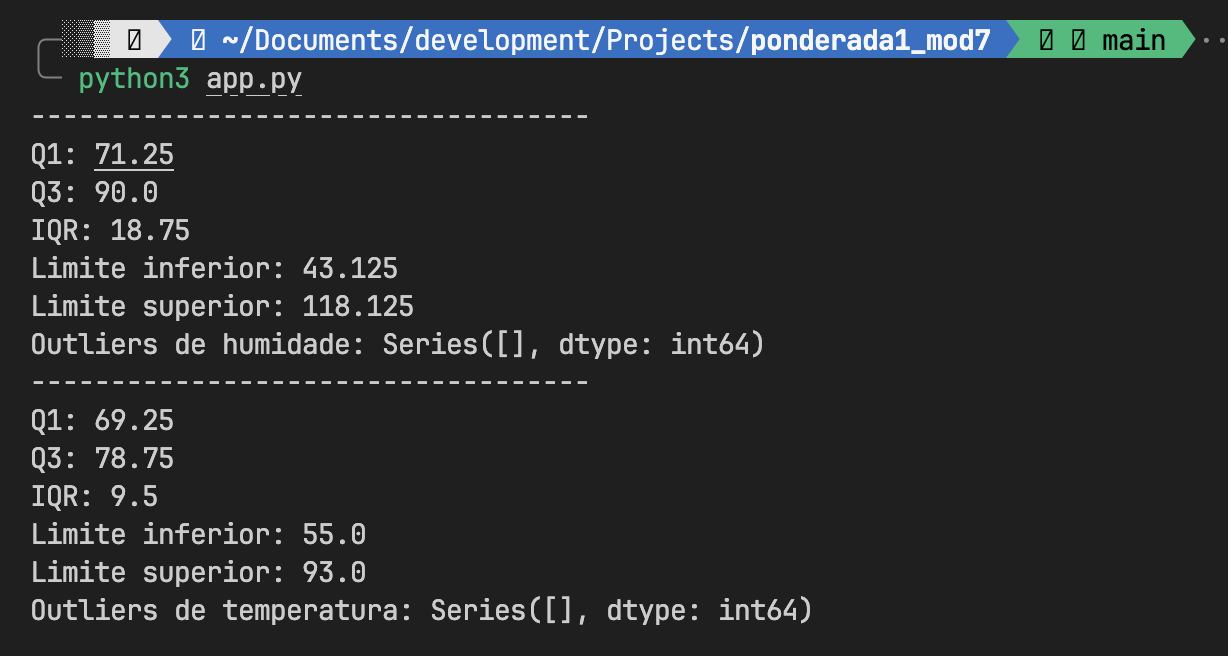
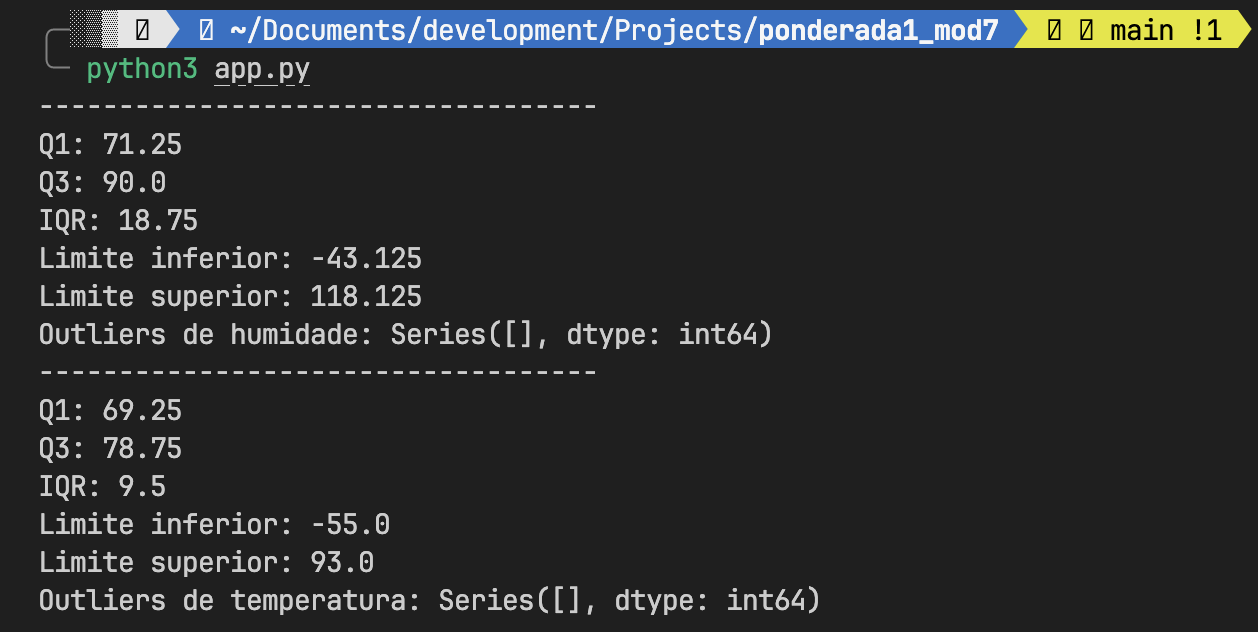
Correção de problema no script

diff --git a/app.py b/app.py
@@ -1,22 +1,8 @@
 import pandas as pd
 
 temperatura = [71, 69, 80, 83, 70, 65, 64, 72, 75, 68, 81, 85, 72, 75]
-humidade = [
-    91,
-    70,
-    90,
-    86,
-    96,
-    70,
-    65,
-    90,
-    70,
-    80,
-    75,
-    85,
-    95,
-    80,
-]
+humidade = [91, 70, 90, 86, 96, 70, 65, 90, 70, 80, 75, 85, 95, 80]
+
 
 # Função para calcular os outliers
 def get_outliers(dados):
@@ -37,18 +23,18 @@ def get_outliers(dados):
     print("IQR:", IQR)
 
     # Calcula os limites inferior e superior
-    limite_inferior = Q1 - 1.5 * IQR
-    limite_superior = Q3 + 1.5 * IQR
+    limite_inferior = 1.5 * IQR - Q1
+    limite_superior = 1.5 * IQR + Q3
 
     print("Limite inferior:", limite_inferior)
     print("Limite superior:", limite_superior)
-
 
     # Identifica os outliers
     outliers = (dados_series < limite_inferior) | (dados_series > limite_superior)
 
     outliers_valores = dados_series[outliers]
     return outliers_valores
+
 
 # Chama a função para calcular os outliers
 print("Outliers de humidade:", get_outliers(humidade))

diff --git a/README.md b/README.md
@@ -1,36 +1,26 @@
-# Análise de Outliers
+# Análise de Outliers em Dados de Temperatura e Umidade
 
-Este script Python utiliza a biblioteca pandas para identificar outliers em conjuntos de dados de temperatura e umidade. Ele calcula os quartis, o IQR (Intervalo Interquartil) e, com base nesses valores, identifica os valores que são considerados outliers.
+Este script Python utiliza a biblioteca pandas para realizar uma análise de outliers em conjuntos de dados de temperatura e umidade. Ele calcula os quartis, o IQR (Intervalo Interquartil) e, com base nesses valores, identifica os valores que são considerados outliers.
 
 ## Dados de Exemplo
-Os dados de exemplo são fornecidos para as variáveis 'temperatura' e 'humidade', que contêm listas de números representando as leituras de temperatura e umidade, respectivamente.
 
 ```python
+import pandas as pd
+
 temperatura = [71, 69, 80, 83, 70, 65, 64, 72, 75, 68, 81, 85, 72, 75]
-humidade = [
-    91,
-    70,
-    90,
-    86,
-    96,
-    70,
-    65,
-    90,
-    70,
-    80,
-    75,
-    85,
-    95,
-    80,
-]
+humidade = [91, 70, 90, 86, 96, 70, 65, 90, 70, 80, 75, 85, 95, 80]
+
 ```
 
-## Função get_outliers
-A função `get_outliers(dados)` é definida para identificar e retornar os outliers em um conjunto de dados. Os passos para identificar os outliers são:
+Os dados de exemplo são fornecidos para as variáveis 'temperatura' e 'humidade', que contêm listas de números representando as leituras de temperatura e umidade, respectivamente.
+
+## Função `get_outliers`
+
+A função `get_outliers(dados)` é definida para identificar e retornar os outliers em um conjunto de dados. Os passos para identificar os outliers são os seguintes:
 
 1. Converte a lista em um objeto Series do pandas.
 2. Calcula os quartis (Q1 e Q3) e o IQR (Intervalo Interquartil).
-3. Calcula os limites inferior e superior para determinar a faixa de valores não-outliers.
+3. Calcula os limites inferior e superior utilizando a fórmula correta: `limite_inferior = 1.5 * IQR - Q1` e `limite_superior = 1.5 * IQR + Q3`.
 4. Identifica os outliers usando a condição `dados_series < limite_inferior) | (dados_series > limite_superior)`.
 5. Retorna os valores identificados como outliers.
 
@@ -47,8 +37,8 @@ def get_outliers(dados):
     IQR = Q3 - Q1
 
     # Calcula os limites inferior e superior
-    limite_inferior = Q1 - 1.5 * IQR
-    limite_superior = Q3 + 1.5 * IQR
+    limite_inferior = 1.5 * IQR - Q1
+    limite_superior = 1.5 * IQR + Q3
 
     # Identifica os outliers
     outliers = (dados_series < limite_inferior) | (dados_series > limite_superior)
@@ -58,7 +48,8 @@ def get_outliers(dados):
 ```
 
 ## Identificação dos Outliers
-Após definir a função, os outliers são identificados para as variáveis 'temperatura' e 'humidade' chamando a função `get_outliers(dados)` para cada conjunto de dados.
+
+Após definir a função `get_outliers`, os outliers são identificados para as variáveis 'temperatura' e 'humidade' chamando a função `get_outliers(dados)` para cada conjunto de dados.
 
 ```python
 # Chama a função para calcular os outliers
@@ -66,9 +57,10 @@ print("Outliers de humidade:", get_outliers(humidade))
 print("Outliers de temperatura:", get_outliers(temperatura))
 ```
 
-Os valores identificados como outliers são exibidos no console.
 
-## Resultados
-O script retornou que não há outliers para a coluna de temperatura e humidade. Segue abaixo o resultado do console.
+## Resultado
+O script retornou que não existem outliers nos dados fornecidos.
+
+Segue um print do retorno do script no console.
 
 ![Alt text](image.png)
